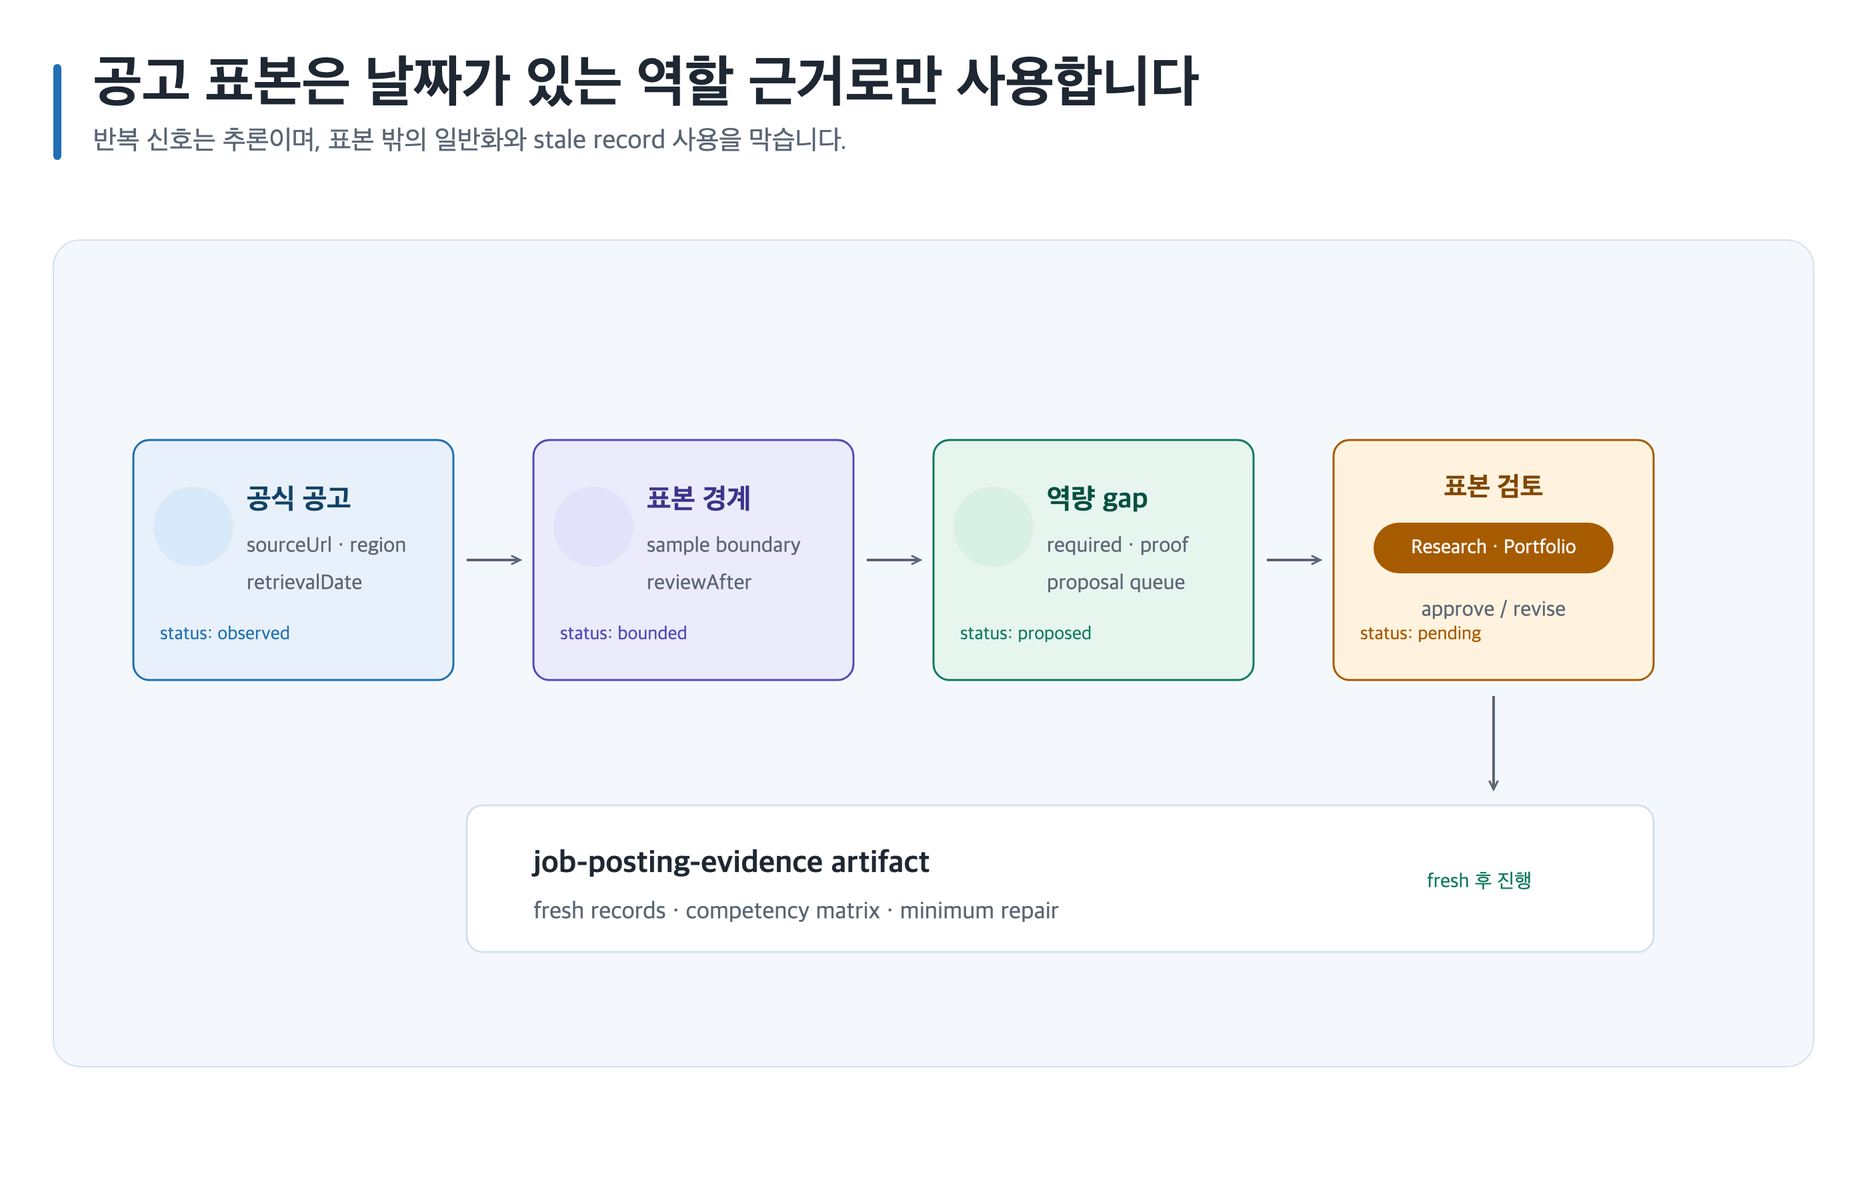
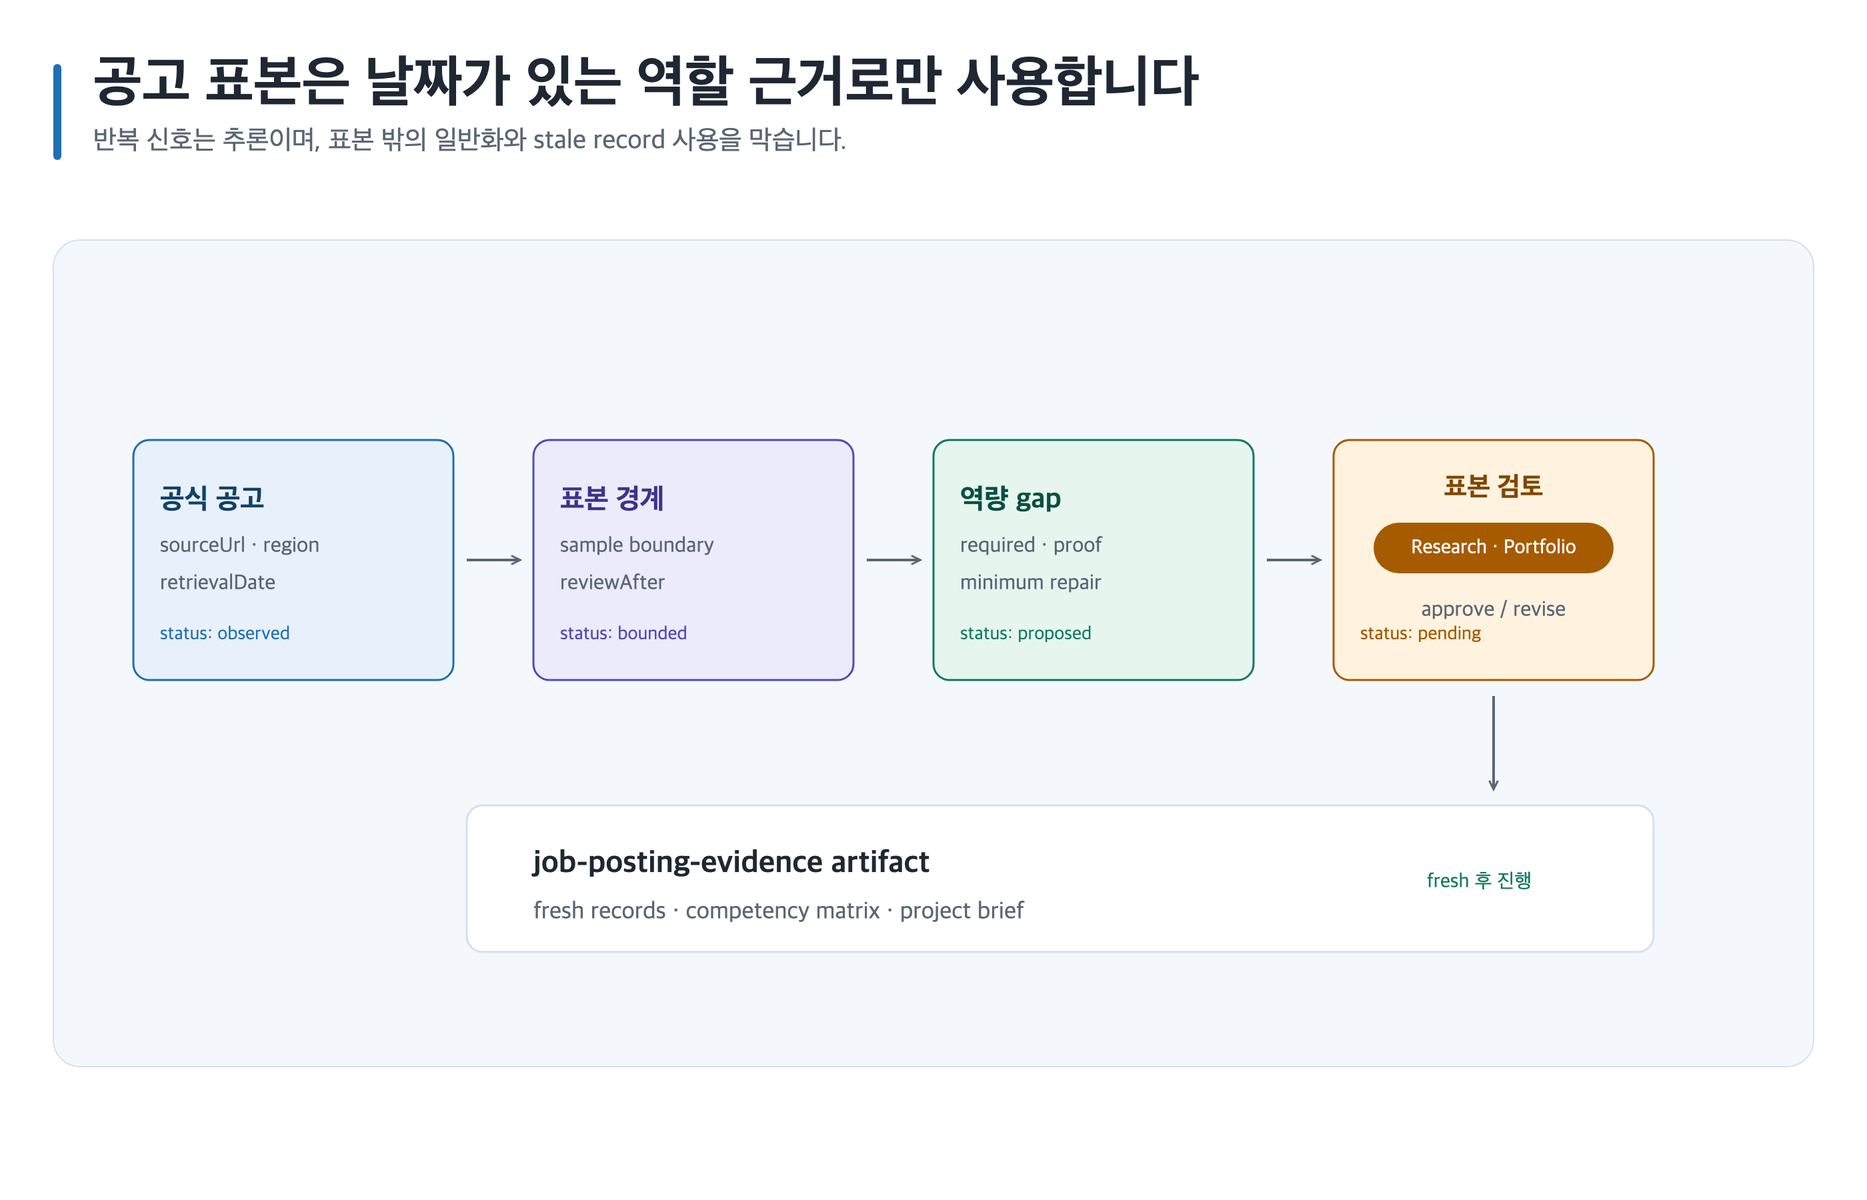
fix(docs): align career guides with product contracts

diff --git a/guides/assets/VISUAL-QA.md b/guides/assets/VISUAL-QA.md
@@ -39,9 +39,9 @@
 
 | 도식 | 전체 보기 검사 | 원본 해상도 검사 | 연결선·읽기 순서 | 출처 충실도 |
 | --- | --- | --- | --- | --- |
-| `career-stage-routing` | 현재 단계→실제 event→전환 상태→경로 gate가 즉시 좌→우로 읽힘 | CJK/Latin glyph, footer와 status pill의 clipping·tofu·overflow 없음 | 각 40px corridor에서 2px shaft와 open-V가 명확하고, endpoint는 다음 card의 10px 앞에 멈춤; gate→artifact는 12px target gap | workflow·주니어 성장 guide의 project event, alternative path, 사람 결정과 export state를 반영 |
-| `role-gap-learning-roadmap` | 증거→역할 gap→학습 과제→재평가가 한 화면에서 구분됨 | long footer label과 reviewAfter·stale re-retrieval text의 containment 정상 | main rail의 10px target gap과 충분한 shaft, 하향 connector의 12px target gap을 확인 | map guide의 source·scope·freshness, learning roadmap의 proof task·cadence를 반영 |
-| `job-research-evidence-flow` | 공식 공고에서 표본 경계와 역량 gap으로 가는 경로가 명확함 | sourceUrl·retrievalDate·sample boundary 텍스트와 reviewer pill의 overflow 없음 | ordered rail과 human review gate가 분리되어 읽히며 모든 target gap은 10px/12px | research guide의 official source, region, reviewAfter와 minimum repair boundary를 반영 |
-| `reverse-design-portfolio-flow` | 공개 관찰→가설·반례→검증 queue→권리 gate 순서가 명확함 | build/platform, counterexample, rights boundary의 CJK/Latin glyph와 footer containment 정상 | 네 main connector는 10px target gap과 읽을 수 있는 shaft를 유지하고 gate→artifact는 12px gap | reverse-engineer guide의 observation/inference/validation과 source rights boundary를 반영 |
-| `portfolio-review-loop` | claim 근거→5축 검토→최소 repair→공개 gate가 즉시 구분됨 | findingId·observationState, attribution과 inspectability text의 clipping·tofu 없음 | 좌→우 rail과 하향 재검토 artifact connector의 open-V/shaft/10px·12px gap 정상 | portfolio build/review guide의 claim evidence, attribution, rights/privacy와 repair backlog를 반영 |
-| `interview-growth-transition-flow` | fresh 근거→질문 record→답변 feedback→Coach gate가 즉시 읽힘 | questionId, evidence IDs, honest gap과 footer label의 containment 정상 | main rail의 10px target gap, gate에서 footer의 12px gap 및 충분한 shaft를 확인 | interview·job research·portfolio review guide의 stable questionId, fresh evidence와 feedback cycle을 반영 |
+| `career-stage-routing` | 현재 단계→실제 event→전환 상태→경로 gate가 icon placeholder 없이 즉시 좌→우로 읽힘 | high/original에서 CJK/Latin glyph, non-icon card text, footer/status pill의 clipping·tofu·overflow 없음 | 각 40px corridor에서 2px shaft와 open-V가 명확하고 endpoint는 다음 card 10px 앞, gate→artifact는 12px target gap | workflow·주니어 성장 guide의 project event, alternative path, 사람 결정과 export state를 반영 |
+| `role-gap-learning-roadmap` | current evidence→역할 gap→학습 과제→재평가가 빈 circle 없이 구분됨 | high/original에서 retrievalDate·region·sample boundary locator, footer label의 containment 정상 | main rail의 10px target gap과 충분한 shaft, 하향 connector의 12px target gap을 확인 | map guide의 current evidence metadata, learning roadmap의 proof task·cadence를 반영 |
+| `job-research-evidence-flow` | 공식 공고에서 표본 경계와 역량 gap·project brief로 가는 경로가 명확함 | high/original에서 sourceUrl·retrievalDate·sample boundary와 reviewer pill의 overflow 없음 | ordered rail과 human review gate가 분리되어 읽히며 모든 target gap은 10px/12px | research guide의 official source, region, reviewAfter와 portfolio-project-brief handoff를 반영 |
+| `reverse-design-portfolio-flow` | 공개 관찰→가설·반례→검증 queue→권리 gate 순서가 빈 circle 없이 명확함 | high/original에서 build/platform, counterexample, rights boundary의 CJK/Latin glyph와 footer containment 정상 | 네 main connector는 10px target gap과 읽을 수 있는 shaft를 유지하고 gate→artifact는 12px gap | reverse-engineer guide의 observation/inference/validation과 source rights boundary를 반영 |
+| `portfolio-review-loop` | claim 근거→5축 검토→portfolio backlog→공개 gate가 빈 circle 없이 즉시 구분됨 | high/original에서 findingId·observationState, attribution·inspectability text의 clipping·tofu 없음 | 좌→우 rail과 하향 재검토 artifact connector의 open-V/shaft/10px·12px gap 정상 | portfolio build/review guide의 claim evidence, attribution, rights/privacy와 portfolio-backlog handoff를 반영 |
+| `interview-growth-transition-flow` | current evidence→질문 record→답변 feedback→Coach gate가 빈 circle 없이 즉시 읽힘 | high/original에서 retrievalDate·region·sample boundary locator, questionId/evidence IDs/footer의 containment 정상 | main rail의 10px target gap, gate에서 footer의 12px gap 및 충분한 shaft를 확인 | interview·job research·portfolio review guide의 stable questionId, fresh evidence와 feedback cycle을 반영 |

diff --git a/guides/game-design-career/recipes/job-research-gap.md b/guides/game-design-career/recipes/job-research-gap.md
@@ -1,6 +1,6 @@
 # 현재 공고 근거로 역할 gap 조사하기
 
-![공고 조사와 근거 흐름](../../assets/game-design-career/job-research-evidence-flow.png)
+![공식 공고와 표본 경계가 역량 gap, minimum repair, 사람 검토를 거쳐 current evidence artifact로 이어지는 흐름.](../../assets/game-design-career/job-research-evidence-flow.png)
 
 ## 완료 목표
 
@@ -9,29 +9,29 @@
 ## 준비할 입력
 
 - 역할, seniority, 지역, 조사일, official HTTPS source 후보와 공개 가능한 portfolio evidence
-- Canonical Artifact family: `game-design-career/<career-id>/job-posting-evidence/`, `game-design-career/<career-id>/competency-matrix/`
-- 템플릿: `job-posting-evidence`, `competency-matrix`, `portfolio-backlog`
+- Canonical Artifact family: `game-design-career/<career-id>/job-posting-evidence/`, `game-design-career/<career-id>/competency-matrix/`, `game-design-career/<career-id>/portfolio-project-brief/`
+- 템플릿: `job-posting-evidence`, `competency-matrix`, `portfolio-project-brief`
 
 ## 복사 가능한 요청문
 
 Codex App 자연어 요청:
 
 ```text
-@Game Design Career 개인정보, 연락처, 비공개 지원 자료를 넣지 말고 한국의 공개 공식 공고만 조사해. 관찰 사실·추론·제안, 출처와 표본 한계를 분리해 역할 gap과 portfolio backlog를 만들어.
+@Game Design Career 개인정보·실명·회사기밀 raw input은 입력하지 말고 익명화된 공개 evidence ID와 한국의 공개 공식 공고만 사용해. 관찰 사실·추론·제안, 출처와 표본 한계를 분리해 역할 gap과 portfolio project brief를 만들어.
 ```
 
 Codex CLI 명시 호출:
 
 ```text
-$game-design-career:research-game-design-jobs game-design-career/<career-id>/job-posting-evidence/를 만들고 $game-design-career:map-game-design-career, $game-design-career:build-game-design-portfolio로 competency-matrix와 backlog를 연결해.
+$game-design-career:research-game-design-jobs game-design-career/<career-id>/job-posting-evidence/를 만들고 $game-design-career:map-game-design-career, $game-design-career:build-game-design-portfolio로 competency-matrix와 portfolio-project-brief를 연결해.
 ```
 
 ## 단계별 진행
 
 1. 공고별 `관찰 사실`은 `sourceUrl`, `location`, `retrievalDate`, `region`, `sample boundary`, `reviewAfter`와 source ID를 가진 record로만 기록합니다.
-2. 반복 신호는 제한된 표본의 `추론`으로 표시하고, 개인 evidence 부족은 `제안`인 minimum repair로 전환합니다.
-3. `reviewAfter`가 지나 stale인 record는 current evidence로 쓰지 않고 같은 source location을 재검색해 새 ID로 대체합니다.
-4. 이미지 계획은 `prompt-only`에서 placeholder만, `select`에서 human receipt 선택만, `required`에서 finite required asset만, `all`에서 declared asset만 처리합니다.
+2. 반복 신호는 제한된 표본의 `추론`으로 표시하고, 개인 evidence 부족은 `제안`인 portfolio-project-brief proof task로 전환합니다.
+3. stale evidence는 재검색 전에는 current claim에 사용하지 않습니다. 같은 source location을 재검색해 새 ID로 연결합니다.
+4. 이미지 계획은 `prompt-only`는 prompt와 placeholder만 처리합니다. `select`는 사람이 제출한 receipt의 stable ID만 처리합니다. `required`는 finite required asset만 처리하고, `all`은 declared asset만 처리합니다.
 
 ## 사람이 결정할 지점
 
@@ -39,13 +39,13 @@ Research Owner **이민아**가 조사 지역·표본 경계를, Portfolio Revie
 
 ## 예상 결과
 
-`job-posting-evidence/content.md`와 `competency-matrix/content.md`에 출처별 requirement, sample limit, gap과 proof task가 남습니다.
+`job-posting-evidence/content.md`, `competency-matrix/content.md`, `portfolio-project-brief/content.md`에 출처별 requirement, sample limit, gap과 proof task가 남습니다.
 
 ## 실패와 재개
 
-Chromium renderer 또는 필요한 capability가 unavailable이면 PNG unavailable으로 기록하고 Canonical Artifact와 기존 output을 보존합니다. stale record는 재검색 후 새 source ID를 추가하고 삭제하지 않은 기존 기록에서 재개합니다.
+Chromium renderer 또는 필요한 capability가 unavailable이면 PNG unavailable 상태로 남기고 Canonical Artifact와 기존 output을 보존합니다. stale record는 재검색 후 새 source ID를 추가하고 삭제하지 않은 기존 기록에서 재개합니다.
 
 ## 관련 기능
 
-- [공고 조사](../skills/research-game-design-jobs.md), [역할 매핑](../skills/map-game-design-career.md), [템플릿](../templates.md)
+- [공고 조사](../skills/research-game-design-jobs.md), [역할 매핑](../skills/map-game-design-career.md), [portfolio 구축](../skills/build-game-design-portfolio.md), [템플릿](../templates.md)
 - [공통 Artifact 수명주기](../../assets/shared/canonical-artifact-lifecycle.png)

diff --git a/guides/game-design-career/recipes/portfolio-build-review.md b/guides/game-design-career/recipes/portfolio-build-review.md
@@ -1,6 +1,6 @@
 # portfolio를 만들고 5축으로 검토하기
 
-![portfolio 제작과 검토 루프](../../assets/game-design-career/portfolio-review-loop.png)
+![portfolio claim evidence와 five-axis finding이 minimum repair, 권리 검토와 다음 review loop로 이어지는 흐름.](../../assets/game-design-career/portfolio-review-loop.png)
 
 ## 완료 목표
 
@@ -9,7 +9,7 @@
 ## 준비할 입력
 
 - target competency, 공개 가능한 claim·evidence address, 개인/팀 attribution, rights·privacy 범위
-- Canonical Artifact family: `game-design-career/<career-id>/creative-design-portfolio/`, `game-design-career/<career-id>/five-axis-review/`
+- Canonical Artifact family: `game-design-career/<career-id>/creative-design-portfolio/`, `game-design-career/<career-id>/five-axis-review/`, `game-design-career/<career-id>/portfolio-backlog/`
 - 템플릿: `creative-design-portfolio`, `five-axis-review`, `portfolio-backlog`
 
 ## 복사 가능한 요청문
@@ -17,21 +17,21 @@
 Codex App 자연어 요청:
 
 ```text
-@Game Design Career 이름, 연락처, 비공개 Jira·회사 자료를 넣지 않고 공개 가능한 evidence ID만 사용해 portfolio case study와 5축 review를 만들어. 관찰 사실·추론·제안과 attribution을 분리해.
+@Game Design Career 개인정보·실명·회사기밀 raw input은 입력하지 말고 익명화된 공개 evidence ID만 사용해 portfolio case study와 5축 review를 만들어. 관찰 사실·추론·제안과 attribution을 분리해.
 ```
 
 Codex CLI 명시 호출:
 
 ```text
-$game-design-career:build-game-design-portfolio game-design-career/<career-id>/creative-design-portfolio/를 작성하고 $game-design-career:review-game-design-portfolio, $game-design-career:plan-image-assets로 five-axis-review와 asset plan을 연결해.
+$game-design-career:build-game-design-portfolio game-design-career/<career-id>/creative-design-portfolio/를 작성하고 $game-design-career:review-game-design-portfolio, $game-design-career:plan-image-assets로 five-axis-review, portfolio-backlog와 asset plan을 연결해.
 ```
 
 ## 단계별 진행
 
 1. claim과 evidence address를 `관찰 사실`로 두고, 외부 current evidence는 `sourceUrl`, `location`, `retrievalDate`, `region`, `sample boundary`, `reviewAfter`를 기록합니다.
-2. reviewer finding은 `추론`, 다음 repair는 `제안`으로 구분하며 inspectability가 없는 impact는 gap으로 남깁니다.
-3. stale external evidence는 재검색해 새 locator를 추가하고, 원래 claim과 review history는 보존합니다.
-4. `prompt-only`는 plan만, `select`는 receipt asset만, `required`는 required finite asset만, `all`은 declared asset만 생성 대상으로 삼습니다.
+2. reviewer finding은 `추론`, 다음 repair는 `제안`으로 구분하고 `review-game-design-portfolio`의 minimum repair를 `portfolio-backlog/`에 기록합니다. inspectability가 없는 impact는 gap으로 남깁니다.
+3. stale evidence는 재검색 전에는 current claim에 사용하지 않습니다. 새 locator를 추가하고 원래 claim과 review history는 보존합니다.
+4. `prompt-only`는 prompt와 placeholder만 처리합니다. `select`는 사람이 제출한 receipt의 stable ID만 처리합니다. `required`는 finite required asset만 처리하고, `all`은 declared asset만 처리합니다.
 
 ## 사람이 결정할 지점
 
@@ -43,7 +43,7 @@ Portfolio Owner **정하늘**이 claim·attribution을, Rights Reviewer **윤태
 
 ## 실패와 재개
 
-Chromium renderer 또는 필요한 capability가 unavailable이면 PNG unavailable으로 남기고 Canonical Artifact와 기존 output을 보존합니다. unsupported claim은 삭제로 숨기지 않고 missing evidence와 owner action으로 재개합니다.
+Chromium renderer 또는 필요한 capability가 unavailable이면 PNG unavailable 상태로 남기고 Canonical Artifact와 기존 output을 보존합니다. unsupported claim은 삭제로 숨기지 않고 missing evidence와 owner action으로 재개합니다.
 
 ## 관련 기능
 

diff --git a/guides/game-design-career/recipes/interview-preparation.md b/guides/game-design-career/recipes/interview-preparation.md
@@ -1,6 +1,6 @@
 # 근거 연결형 면접 연습하기
 
-![면접 연습과 성장 전환 흐름](../../assets/game-design-career/interview-growth-transition-flow.png)
+![fresh posting·portfolio evidence가 stable question record와 honest feedback, coach 검토를 거쳐 성장 proof task로 이어지는 흐름.](../../assets/game-design-career/interview-growth-transition-flow.png)
 
 ## 완료 목표
 
@@ -17,7 +17,7 @@
 Codex App 자연어 요청:
 
 ```text
-@Game Design Career 주민번호, 연락처, 면접 회사 비공개 정보는 넣지 말고 posting·portfolio evidence ID만 사용해 질문 연습을 만들어. 관찰 사실·추론·제안과 honest gap을 같은 questionId에 남겨.
+@Game Design Career 개인정보·실명·회사기밀 raw input은 입력하지 말고 익명화된 posting·portfolio evidence ID만 사용해 질문 연습을 만들어. 관찰 사실·추론·제안과 honest gap을 같은 questionId에 남겨.
 ```
 
 Codex CLI 명시 호출:
@@ -30,8 +30,8 @@ $game-design-career:practice-game-design-interview game-design-career/<career-id
 
 1. posting requirement와 portfolio record를 `관찰 사실`으로 두고 `sourceUrl`, `location`, `retrievalDate`, `region`, `sample boundary`, `reviewAfter`를 연결합니다.
 2. 적합성 해석은 `추론`, 다음 답변 연습·proof task는 `제안`으로 기록하며 answer와 feedback은 같은 `questionId`를 재사용합니다.
-3. stale posting evidence는 current claim에 사용하지 않고 재검색 후 새 evidence IDs를 연결합니다.
-4. 이미지 필요 시 `prompt-only`는 placeholder, `select`는 receipt 선택, `required`는 finite required asset, `all`은 declared asset만 처리합니다.
+3. stale evidence는 재검색 전에는 current claim에 사용하지 않습니다. 재검색 후 새 evidence IDs를 연결합니다.
+4. 이미지 필요 시 `prompt-only`는 prompt와 placeholder만 처리합니다. `select`는 사람이 제출한 receipt의 stable ID만 처리합니다. `required`는 finite required asset만 처리하고, `all`은 declared asset만 처리합니다.
 
 ## 사람이 결정할 지점
 
@@ -43,7 +43,7 @@ Interview Coach **최유진**이 honest answer boundary를, Evidence Reviewer **
 
 ## 실패와 재개
 
-Chromium renderer 또는 필요한 capability가 unavailable이면 PNG unavailable으로 기록하고 Canonical Artifact와 기존 output을 보존합니다. stale record 재검색과 questionId 보존을 먼저 수행해 재개합니다.
+Chromium renderer 또는 필요한 capability가 unavailable이면 PNG unavailable 상태로 남기고 Canonical Artifact와 기존 output을 보존합니다. stale record 재검색과 questionId 보존을 먼저 수행해 재개합니다.
 
 ## 관련 기능
 

diff --git a/guides/game-design-career/recipes/role-learning-roadmap.md b/guides/game-design-career/recipes/role-learning-roadmap.md
@@ -1,6 +1,6 @@
 # 역할과 학습 로드맵을 증거 과제로 연결하기
 
-![역할 gap과 학습 로드맵 흐름](../../assets/game-design-career/role-gap-learning-roadmap.png)
+![현재 증거에서 역할 gap과 proof task를 거쳐 named human 재평가를 받은 learning roadmap artifact로 가는 흐름.](../../assets/game-design-career/role-gap-learning-roadmap.png)
 
 ## 완료 목표
 
@@ -17,7 +17,7 @@
 Codex App 자연어 요청:
 
 ```text
-@Game Design Career 개인정보·비공개 회사 자료 없이 공개 가능한 work sample만 사용해 시스템 기획 역할과 현재 증거의 gap을 로드맵으로 정리해. 관찰 사실, 추론, 제안을 분리하고 검토자를 지정해.
+@Game Design Career 개인정보·실명·회사기밀 raw input은 입력하지 말고 익명화된 공개 evidence ID만 사용해 시스템 기획 역할과 현재 증거의 gap을 로드맵으로 정리해. 관찰 사실, 추론, 제안을 분리하고 검토자를 지정해.
 ```
 
 Codex CLI 명시 호출:
@@ -30,8 +30,8 @@ $game-design-career:orchestrate-game-design-career game-design-career/<career-id
 
 1. 공개 가능한 evidence를 `관찰 사실`로 기록하고, 필요한 current evidence에는 `sourceUrl`, `location`, `retrievalDate`, `region`, `sample boundary`, `reviewAfter`를 함께 남깁니다.
 2. `map-game-design-career`로 evidence가 지지하는 경로만 `추론`으로 표시하고, 빈 부분은 `제안`인 proof task로 둡니다.
-3. `learning-roadmap`의 prerequisite, owner, proof artifact, cadence를 정하고 `reviewAfter`가 지난 stale evidence는 재검색 뒤에만 current claim에 다시 씁니다.
-4. 이미지가 필요하면 `IMAGE_GEN_MODE=prompt-only`는 prompt와 placeholder만, `select`는 사람이 제출한 receipt의 stable ID만, `required`는 manifest의 finite required asset만, `all`은 선언된 asset만 처리합니다.
+3. `learning-roadmap`의 prerequisite, owner, proof artifact, cadence를 정합니다. stale evidence는 재검색 전에는 current claim에 사용하지 않습니다.
+4. 이미지가 필요하면 `prompt-only`는 prompt와 placeholder만 처리합니다. `select`는 사람이 제출한 receipt의 stable ID만 처리합니다. `required`는 finite required asset만 처리하고, `all`은 declared asset만 처리합니다.
 
 ## 사람이 결정할 지점
 
